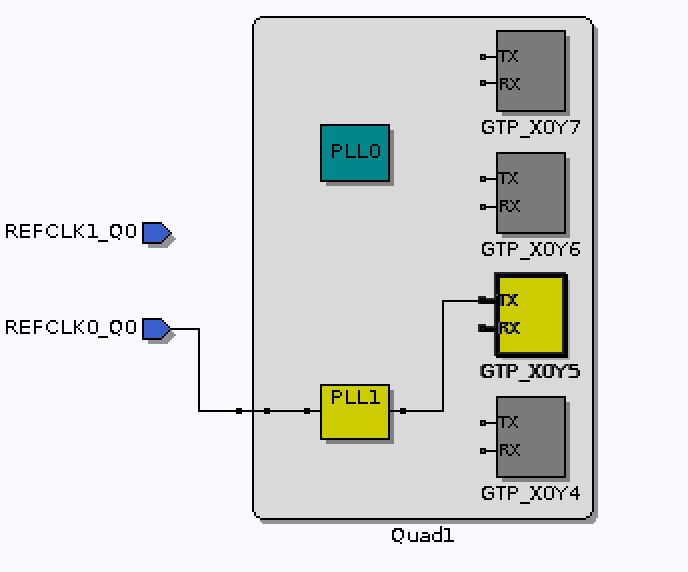
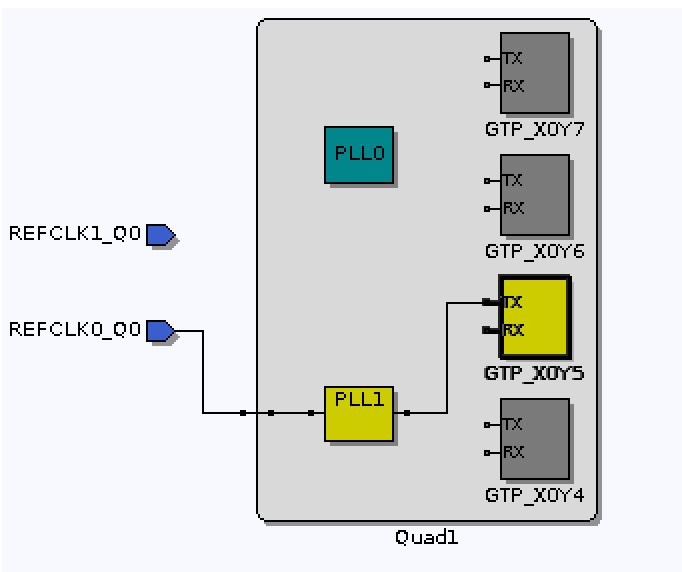
Add MGT clock screen captures.

Changed region(s): [[0.0, 0.0297, 0.893, 0.951], [0.4619, 0.208, 0.585, 0.3269], [0.0, 0.3864, 0.2771, 0.4458]]

diff --git a/documentation/Hardware.html b/documentation/Hardware.html
@@ -16,7 +16,7 @@
       Accelerator Technology Group.&nbsp; The following block diagram
       shows the salient features of this board.</p>
     <blockquote>
-      <p><img src="MarbleMiniBlockDiagram.png" alt="Block Diagram" width="667" height="508"><br>
+      <p><img src="MarbleMiniBlockDiagram.png" alt="Block Diagram" height="508" width="667"><br>
       </p>
     </blockquote>
     <ul>
@@ -206,7 +206,7 @@
     relative to the sampling clock and by extension, relative to each
     other.&nbsp; Thus the phase at which the PLL has locked its output
     relative to its input can be determined.<br>
-    <blockquote><img src="DualEventGeneratorCoincidenceSampling.svg" alt="" width="70%" height="50%"><br>
+    <blockquote><img src="DualEventGeneratorCoincidenceSampling.svg" alt="" height="50%" width="70%"><br>
     </blockquote>
     <br>
     There are two levels of event system clock alignment.&nbsp; The
@@ -236,7 +236,16 @@ characteristics.<br>
     point at which the rising edge of the sampled clock aligns most
     closely with the rising edge of the FPGA clock.&nbsp; The heartbeat
     event in each clock domain is aligned with this coincidence.<br>
+<br>
+The transceiver reference clocks are connected as follows:<br>
+<ul>
+  <li>FMC1_GBTCLK0_M2C -&gt; MGTREFCLK1 -&gt; PLL0 -&gt; GTP_X0Y4_TX</li>
+  <li>FMC2_GBTCLK0_M2C -&gt; MGTREFCLK0 -&gt; PLL1 -&gt; GTP_X0Y5_TX</li>
+</ul>
+<div style="margin-left: 40px;"><img src="EVG1_GTP.png" alt="" style=" width: 341px; height: 286px;">&nbsp;&nbsp;&nbsp;&nbsp;&nbsp;&nbsp; <img src="EVG2_GTP.png" alt="" style=" width: 341px; height: 286px;">
     <br>
+</div>
+
     <br>
     <h1 style="caret-color: rgb(0, 0, 0); color: rgb(0, 0, 0);
       font-family: -webkit-standard; font-style: normal;
